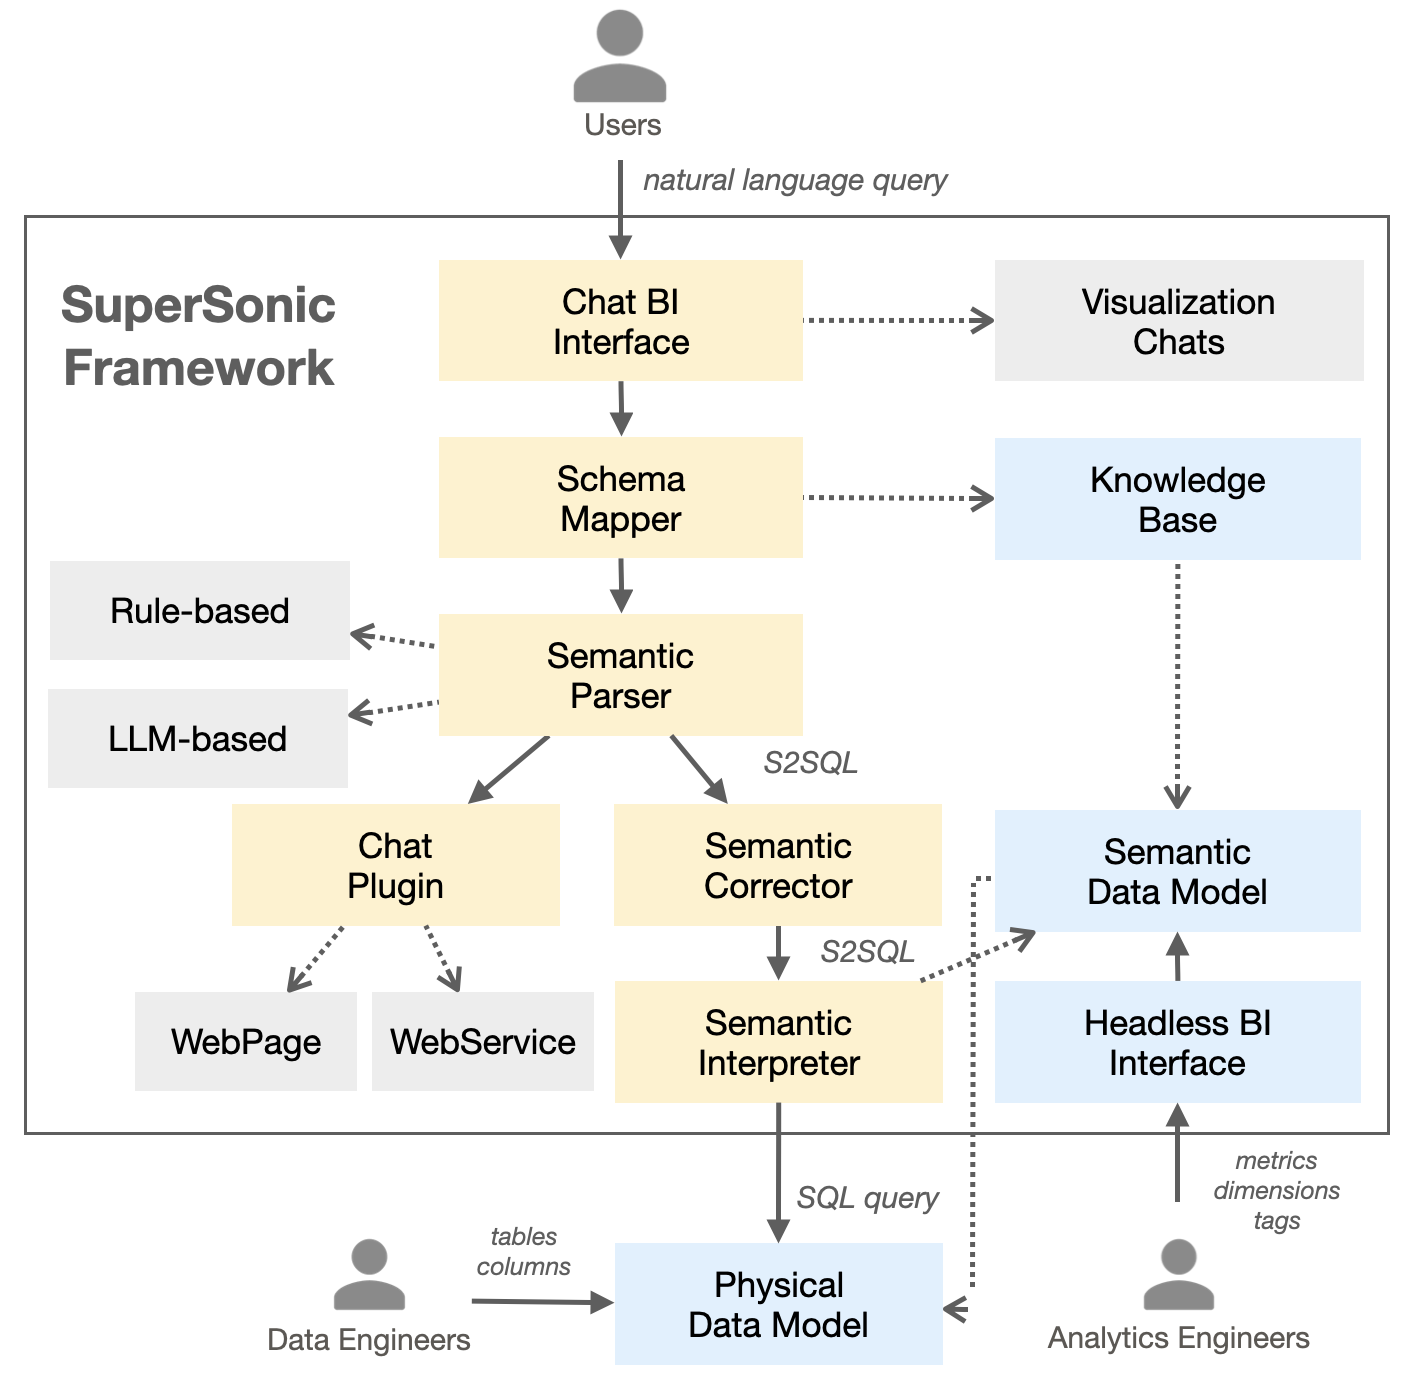
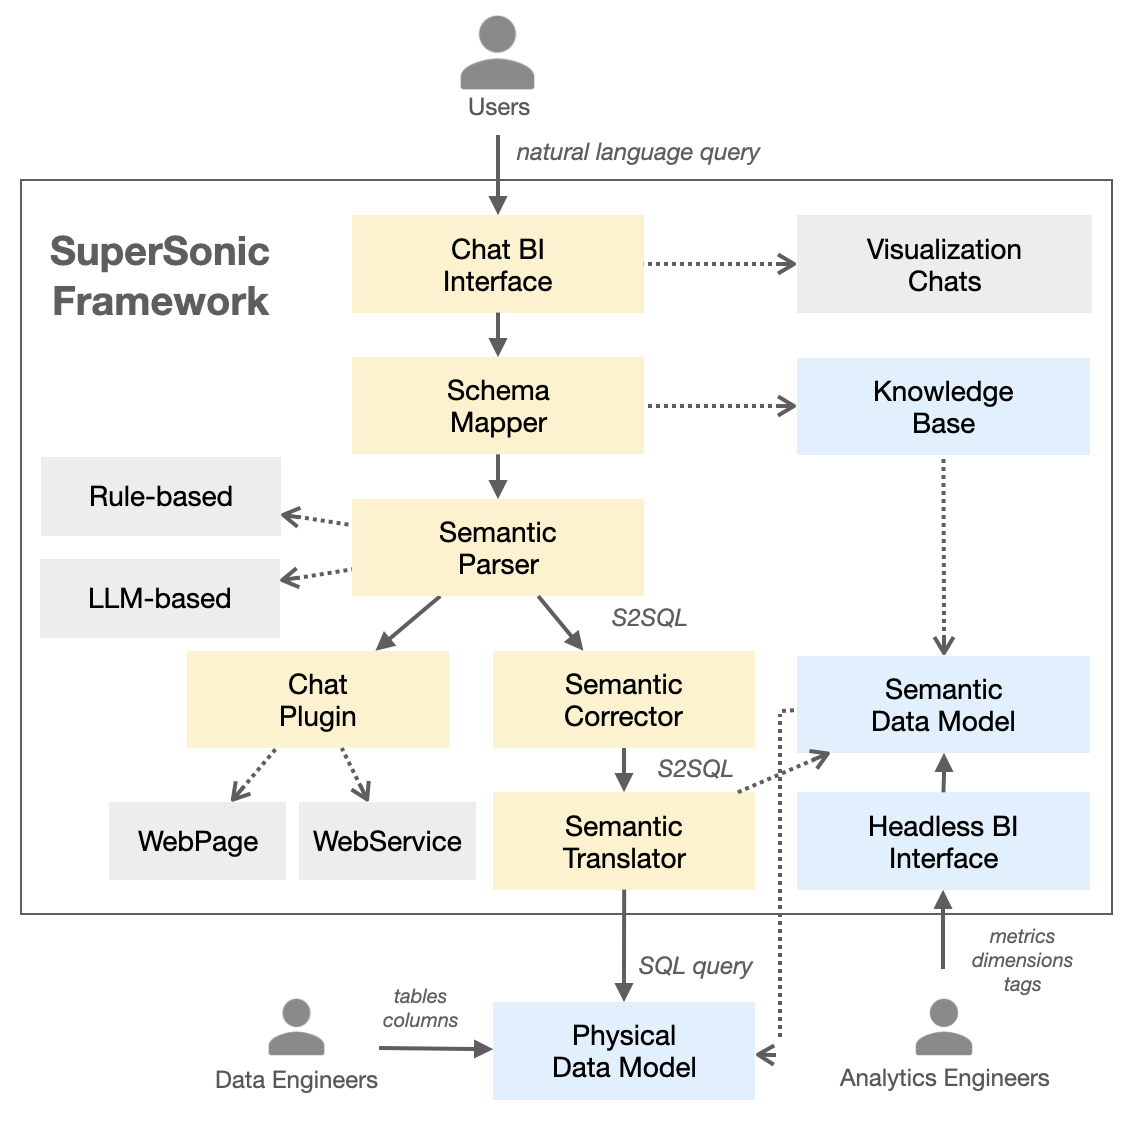
(docs)Revise component description in README

diff --git a/README.md b/README.md
@@ -46,11 +46,11 @@ The high-level architecture and main process flow is as follows:
 
 - **Schema Mapper:** identifies references to schema elements(metrics/dimensions/entities/values) in user queries. It matches the query text against the knowledge base.
 
-- **Semantic Parser:** understands user queries and extracts semantic information. It consists of a combination of rule-based and model-based parsers, each of which deals with specific scenarios.
+- **Semantic Parser:** understands user queries and generates semantic query statement. It consists of a combination of rule-based and model-based parsers, each of which deals with specific scenarios.
 
-- **Semantic Corrector:** checks validity of extracted semantic information and performs correction and optimization if needed.
+- **Semantic Corrector:** checks validity of semantic query statement and performs correction and optimization if needed.
 
-- **Semantic Interpreter:** performs execution according to extracted semantic information. It generates SQL statements and executes them against physical data models.
+- **Semantic Translator:** converts semantic query statement into SQL statement that can be executed against physical data models.
 
 - **Chat Plugin:** extends functionality with third-party tools. The LLM is going to select the most suitable one, given all configured plugins with function description and sample questions.
 

diff --git a/README_CN.md b/README_CN.md
@@ -42,11 +42,11 @@ SuperSonic的整体架构和主流程如下图所示：
 
 - **模式映射器(Schema Mapper)：** 将自然语言文本在知识库中进行匹配，为后续的语义解析提供相关信息。
 
-- **语义解析器(Semantic Parser)：** 理解用户查询并抽取语义信息，其由一组基于规则和基于模型的解析器组成，每个解析器可应对不同的特定场景。
+- **语义解析器(Semantic Parser)：** 理解用户查询并抽取语义信息，生成语义查询语句S2SQL。
 
-- **语义修正器(Semantic Corrector)：** 检查语义信息的合法性，对不合法的信息做修正和优化处理。
+- **语义修正器(Semantic Corrector)：** 检查语义查询语句的合法性，对不合法的信息做修正和优化处理。
 
-- **语义解释器(Semantic Interpreter)：** 根据语义信息生成物理SQL执行查询。
+- **语义翻译器(Semantic Translator)：** 将语义查询语句翻译成可在物理数据模型上执行的SQL语句。
 
 - **问答插件(Chat Plugin)：** 通过第三方工具扩展功能。给定所有配置的插件及其功能描述和示例问题，大语言模型将选择最合适的插件。
 
